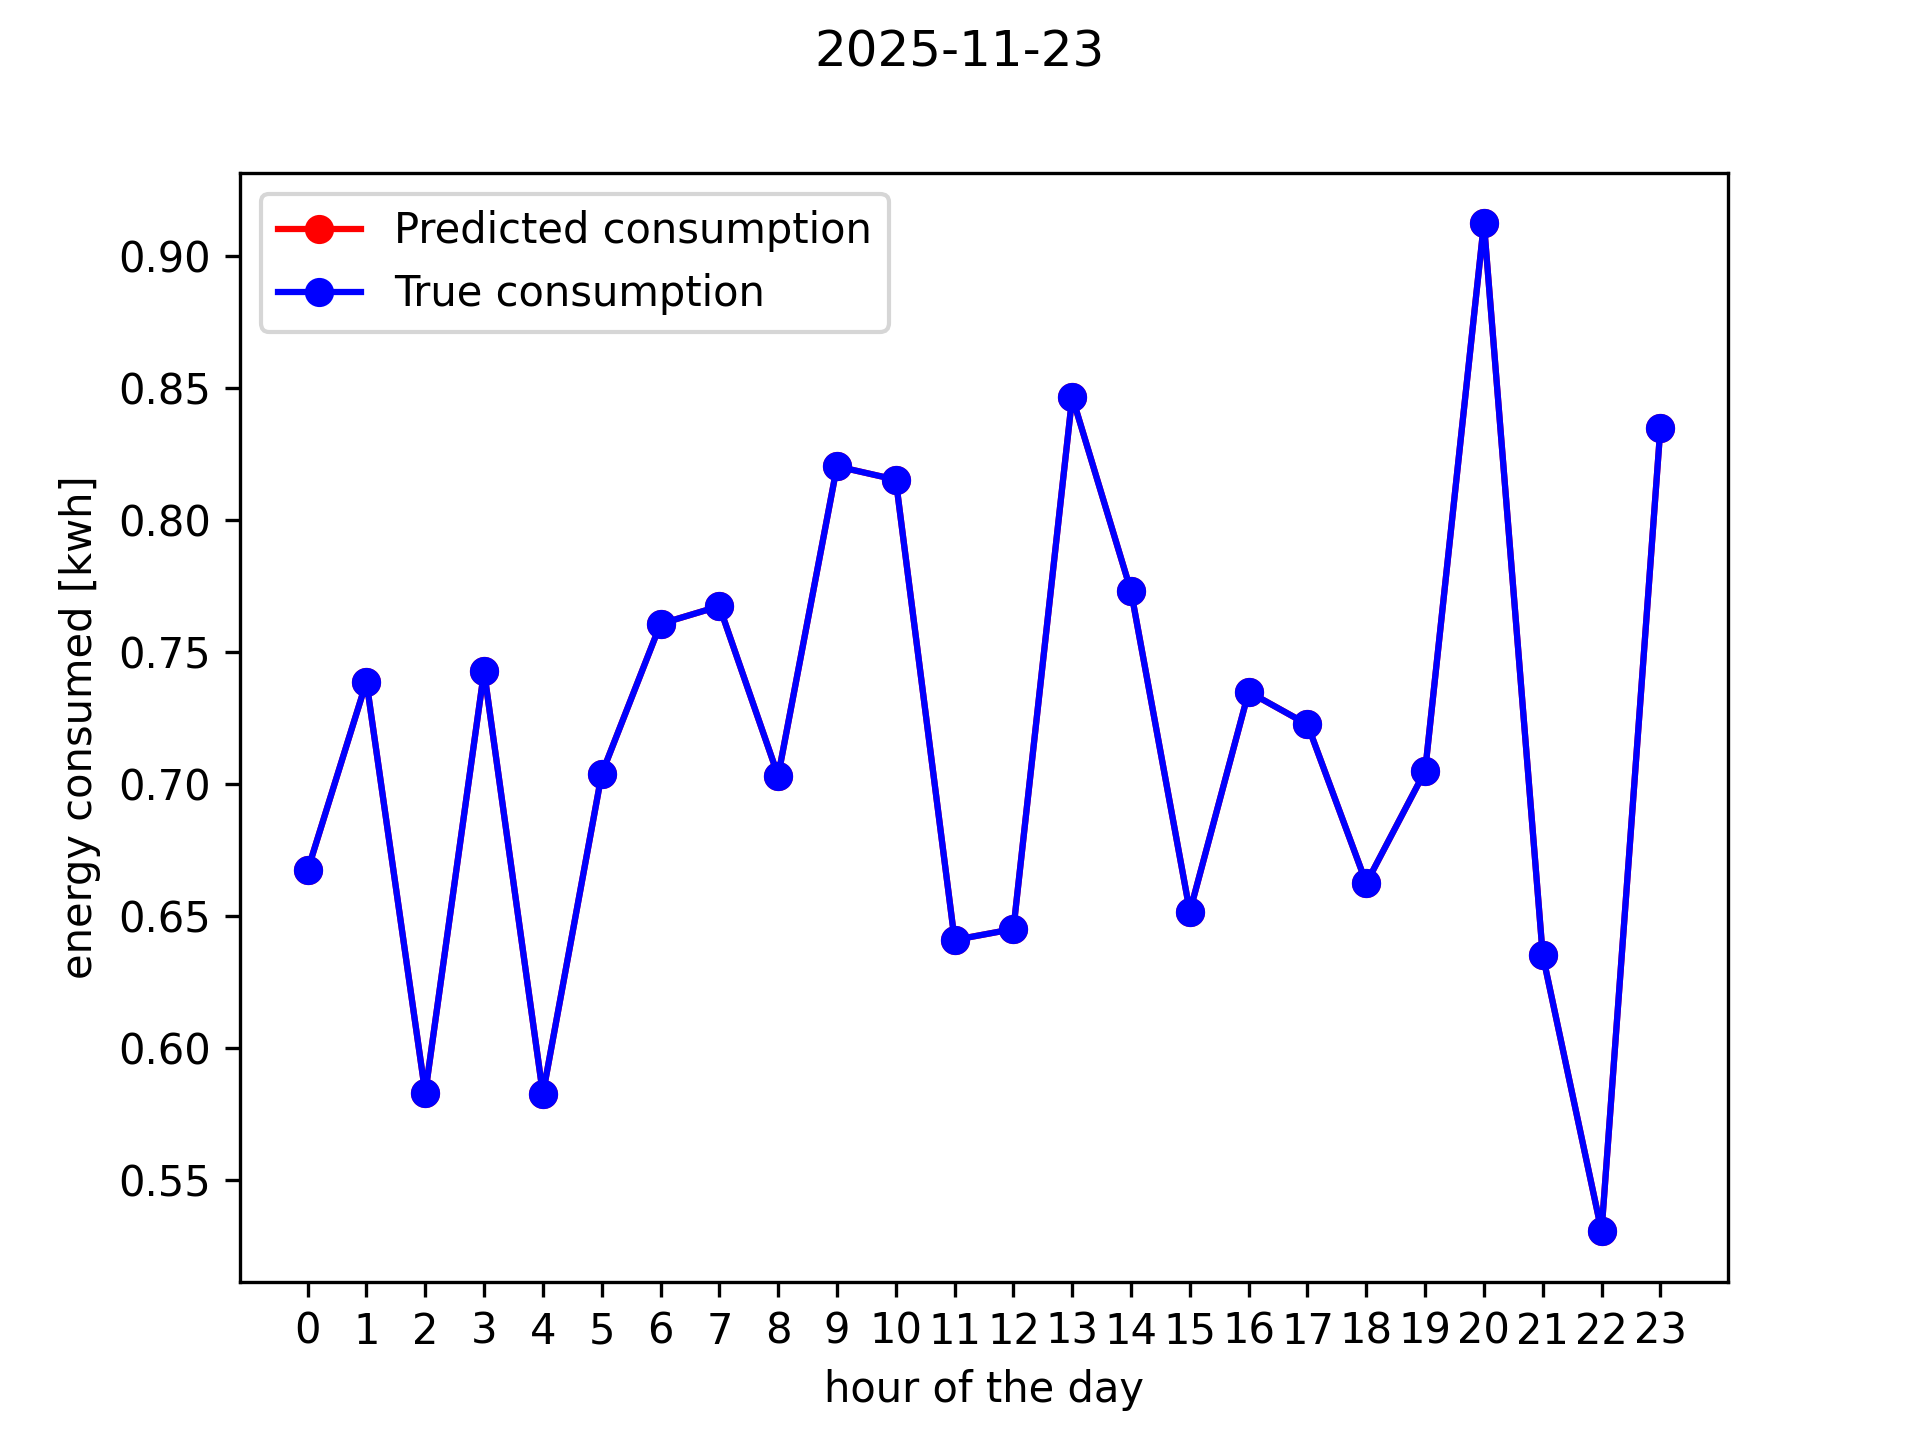
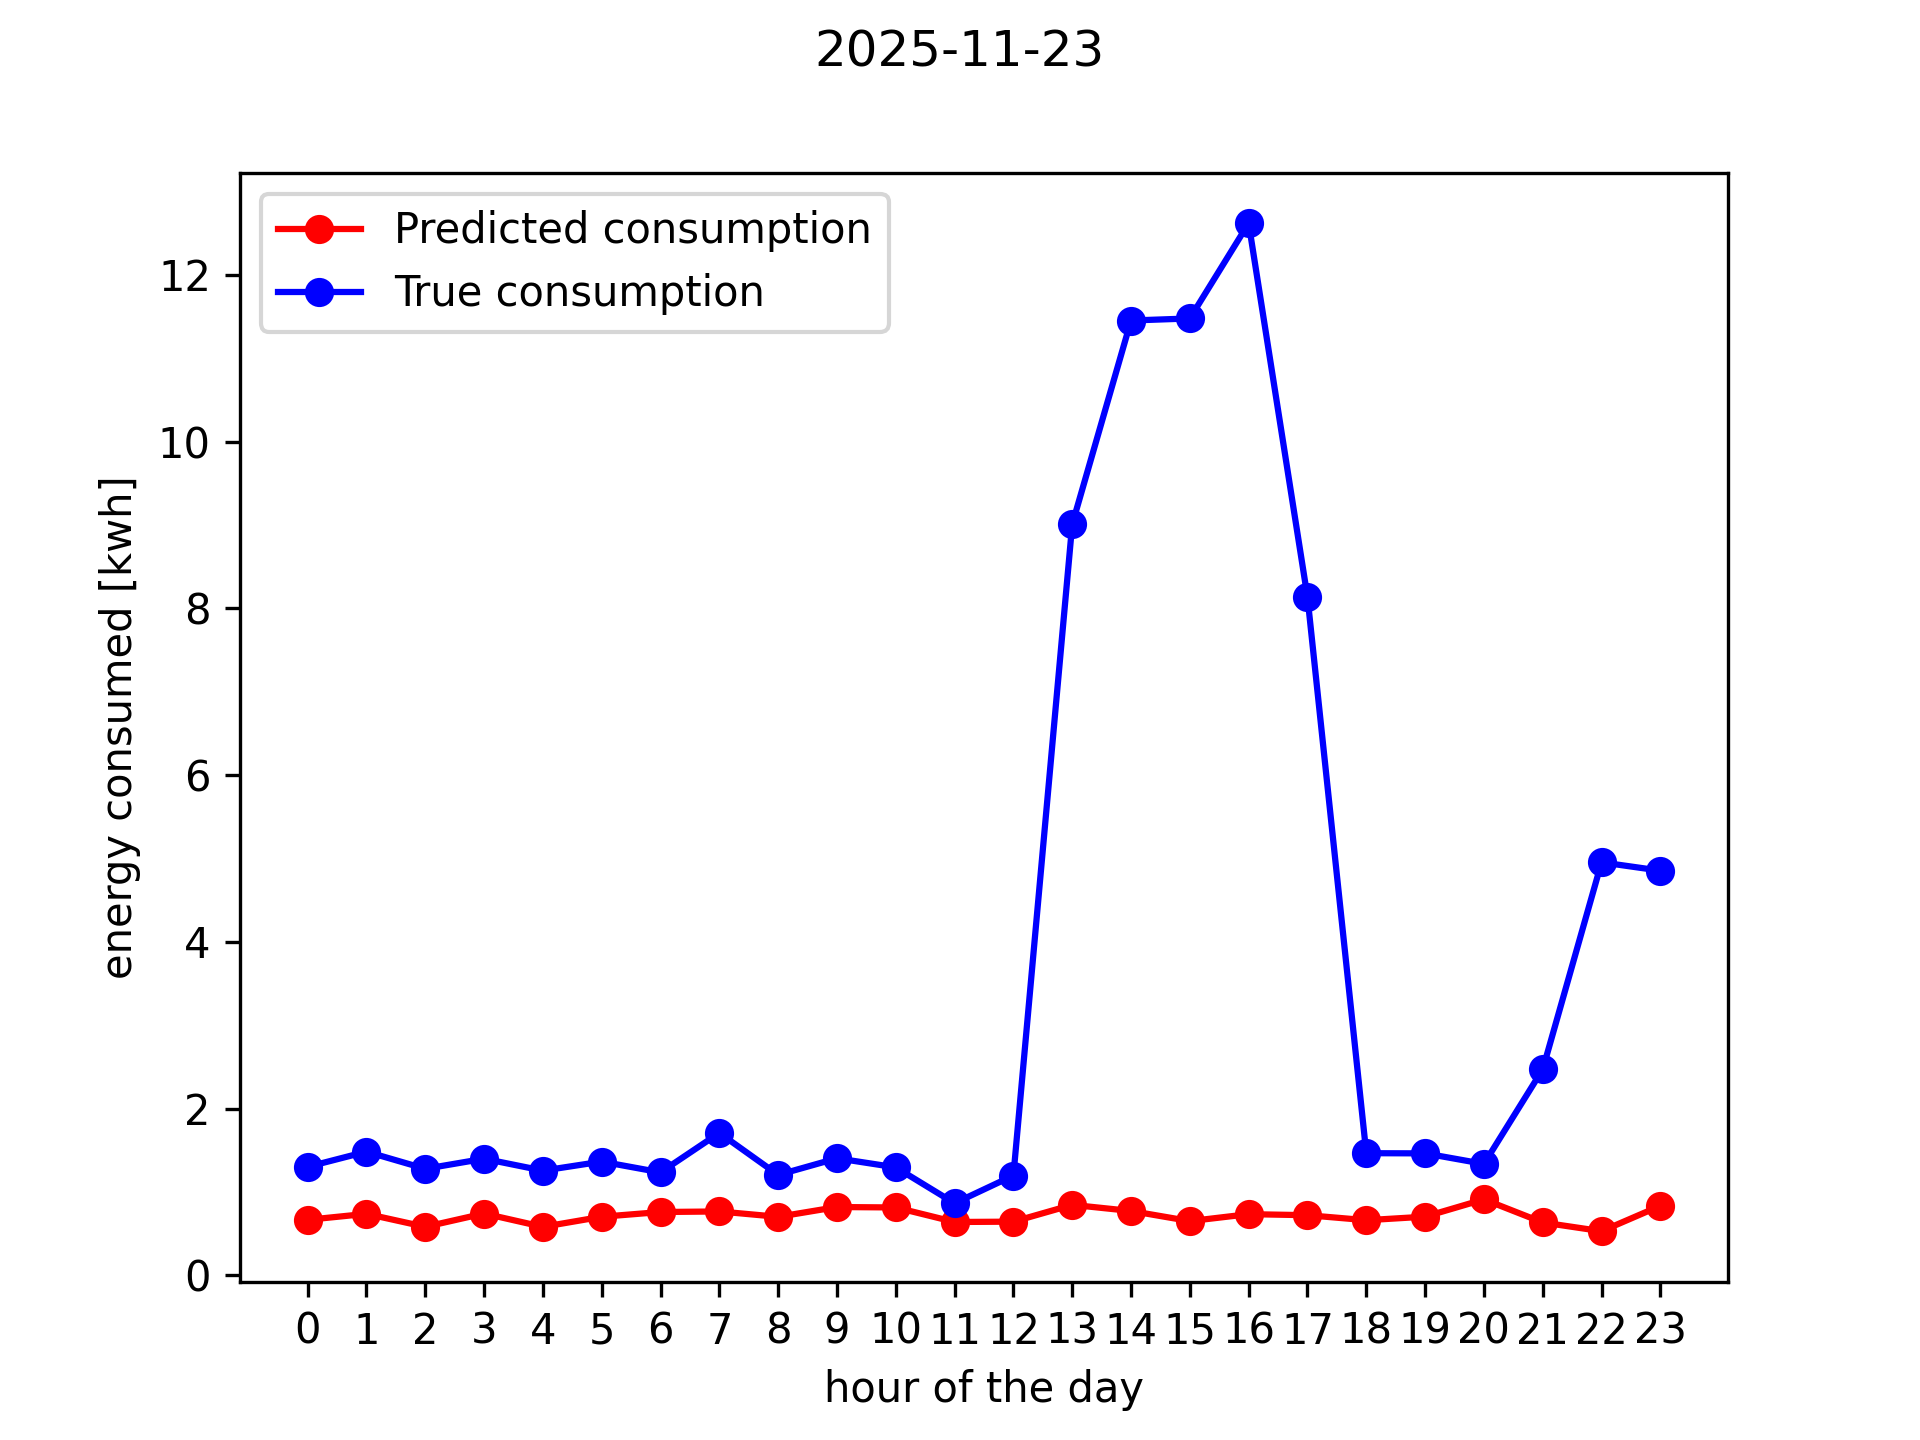
added files for running the evo pilot models

diff --git a/LSTM_pipeline/src/modules/metrics/plot.py b/LSTM_pipeline/src/modules/metrics/plot.py
@@ -66,8 +66,9 @@ def create_EVO_plots(Y_pred, Y, dates, out_dir):
 
     idx = find_next_day_from_results(dates)
     while idx < len(Y_pred):
+        print(idx)
         day_Y_pred = Y_pred[idx]
-        day_Y = Y_pred[idx]
+        day_Y = Y[idx]
         date = dates[idx][0]
 
         _plot_day(day_Y_pred, day_Y, date, save_path)
